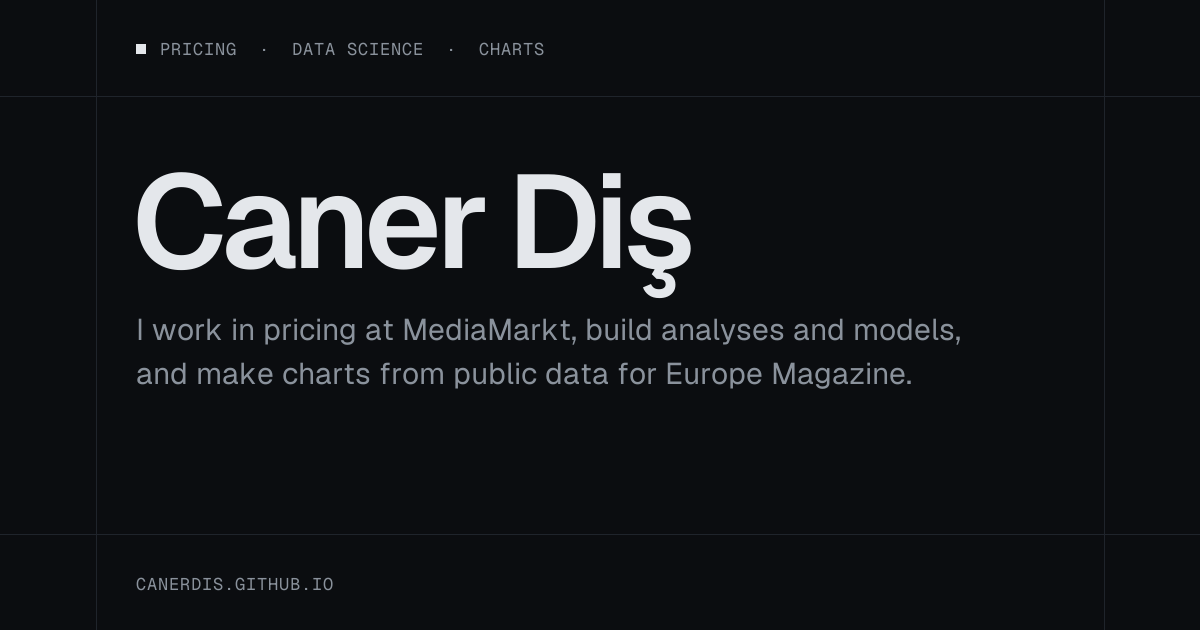
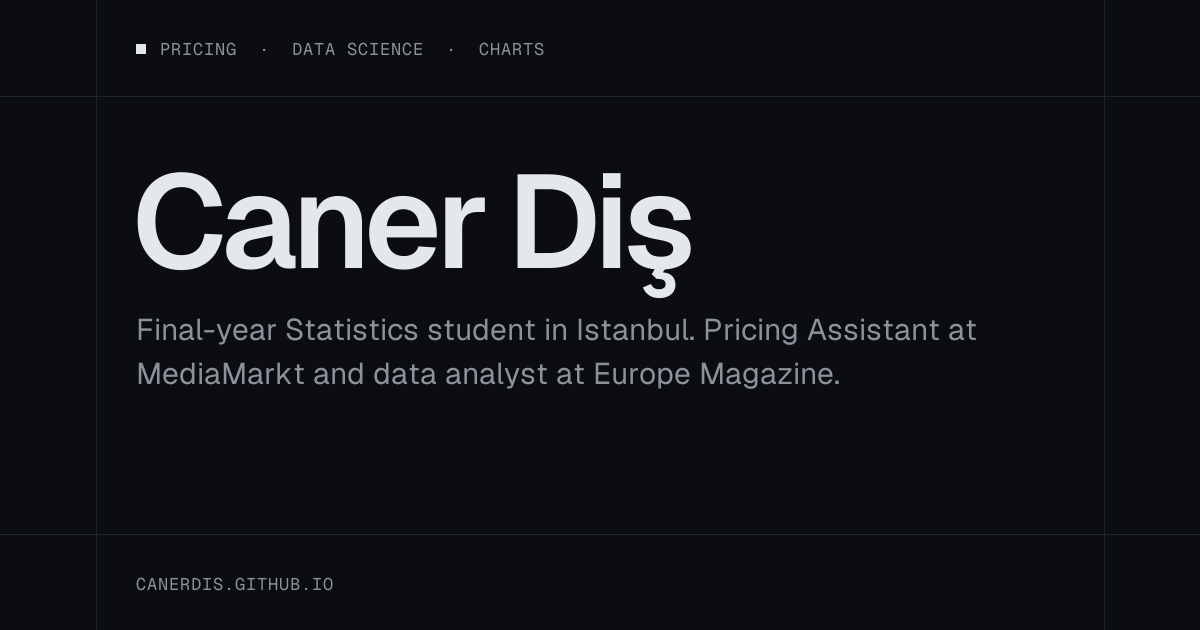
The paragraph under the name is Caner's own about text

Changed region(s): [[0.0925, 0.573, 0.7708, 0.6333], [0.1233, 0.5127, 0.8325, 0.5429]]

diff --git a/src/config.ts b/src/config.ts
@@ -3,17 +3,13 @@
 // deliberately absent: it does not belong on a public page.
 export const SITE = {
   name: 'Caner Diş',
-  // The one sentence under the name. Kept short on purpose: the tools line
-  // under it and the facts strip below carry the specifics.
+  // The about paragraph under the name, in Caner's own words. It is also the
+  // page description that search results and shared links show.
   line:
-    'I work in pricing at MediaMarkt, build analyses and models, and make ' +
-    'charts from public data for Europe Magazine.',
-  // Used for <meta name="description"> and anywhere a longer bio is needed.
-  bio:
-    'Pricing assistant at MediaMarkt and final-year statistics student in ' +
-    'Istanbul. I clean public datasets from statistical agencies and ' +
-    'international organisations and publish them as charts and written ' +
-    'analysis, many for Europe Magazine and its audience of over 100,000.',
+    'I’m a final-year Statistics student in Istanbul. I work as a Pricing ' +
+    'Assistant at MediaMarkt and as a data analyst at Europe Magazine, where I ' +
+    'turn public data into analyses and charts for a 100K+ audience. I don’t ' +
+    'just work with data; I try to understand the story behind it.',
   email: 'canerdis2004@gmail.com',
   // The strip under the hero. `live` puts the breathing dot before the value:
   // it marks the one fact that is about right now. `wide` cells take the full

diff --git a/src/styles/global.css b/src/styles/global.css
@@ -124,7 +124,7 @@ img { display: block; max-width: 100%; height: auto; }
 .mask { display: block; overflow: hidden; padding-bottom: 0.08em; margin-bottom: -0.08em; }
 .mask > span { display: block; }
 .lede {
-  margin: 24px 0 0; max-width: 46ch;
+  margin: 24px 0 0; max-width: 60ch;
   font-size: clamp(18px, 1.6cqi, 20px); line-height: 1.45; color: var(--muted); text-wrap: pretty;
 }
 /* The tools, as part of the description: metadata, so mono. */
